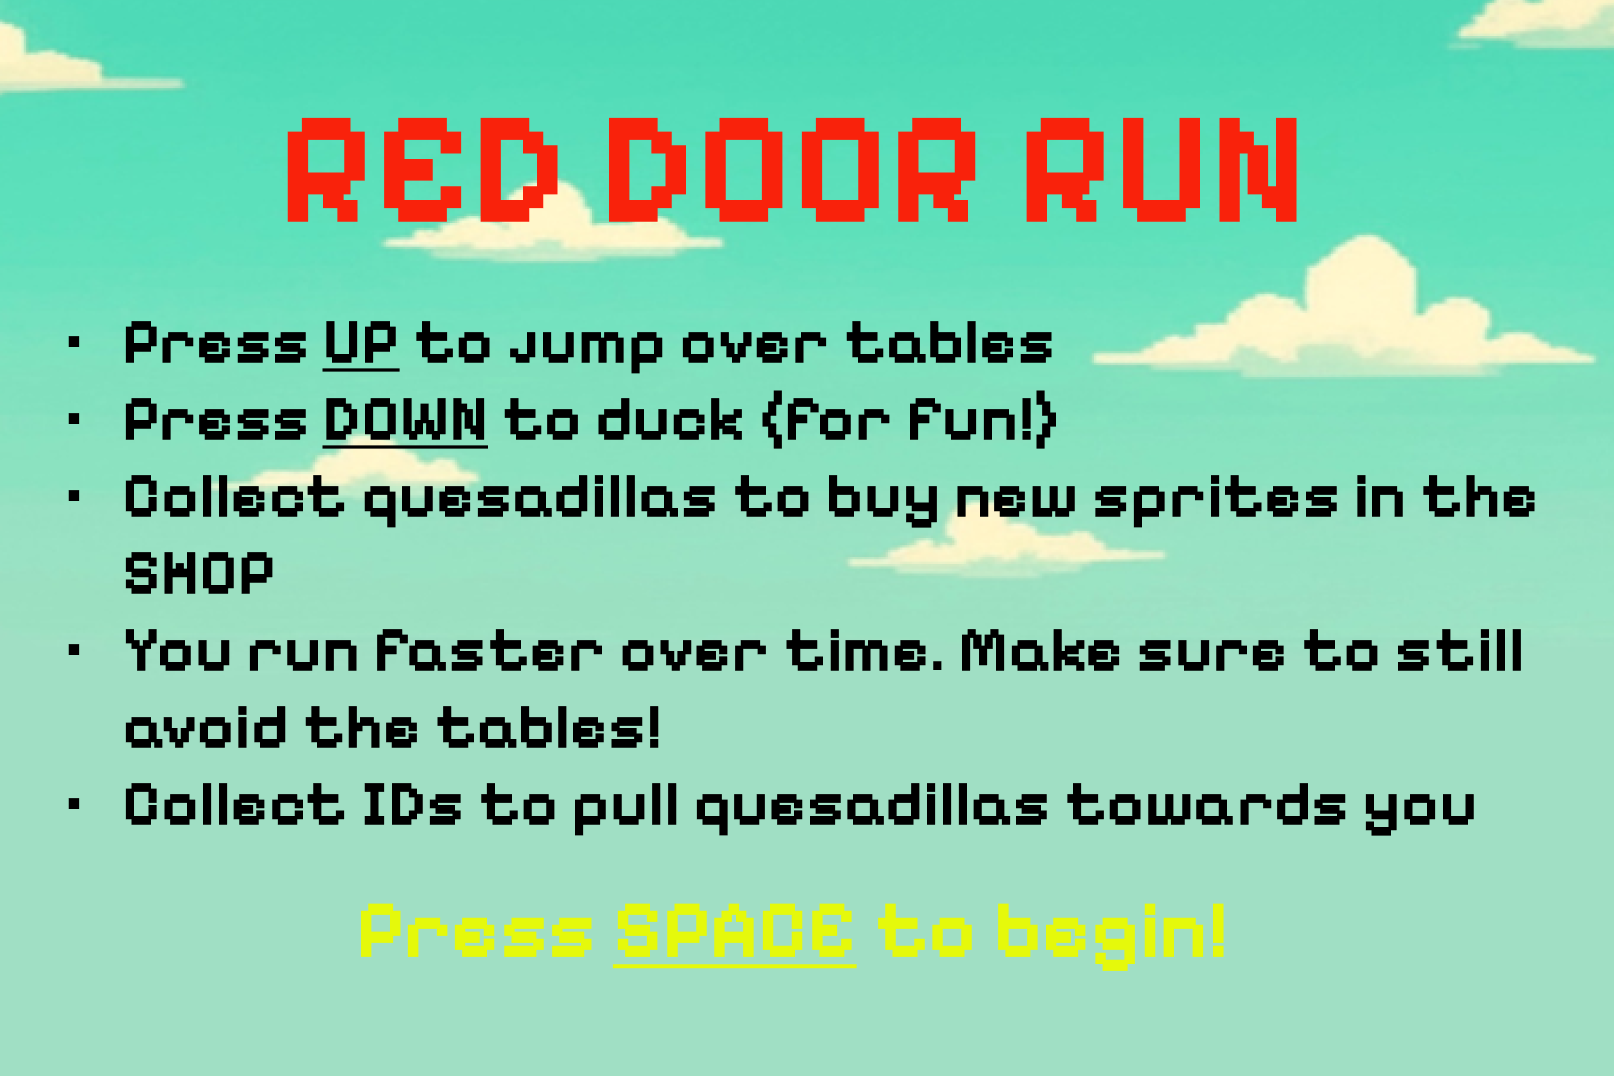
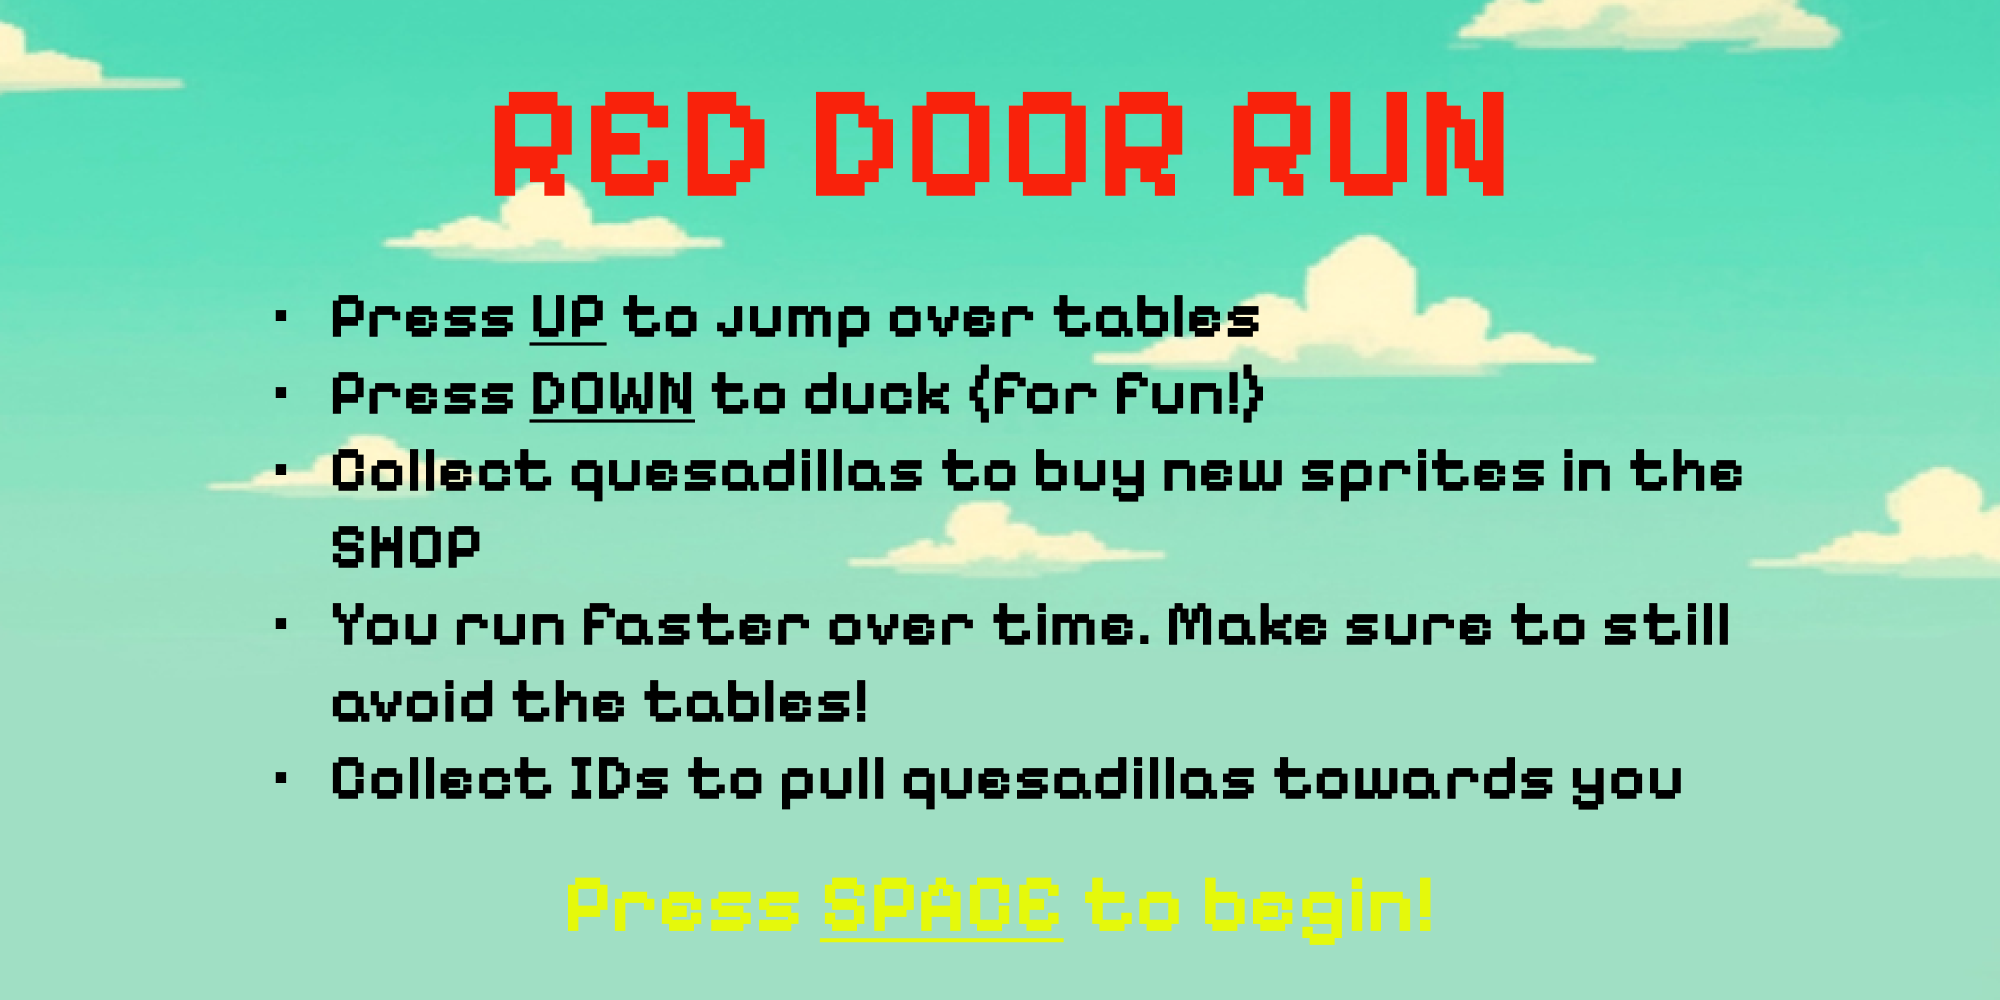
Ducking

diff --git a/library/utils.c b/library/utils.c
@@ -1,11 +1,51 @@
 #include <assert.h>
 #include <math.h>
 
-#include "body.h"
 #include "utils.h"
-
+#include "constants.h"
 double mod_d(double a, double b) { return a - (int)(a / b) * b; }
 
 double min_d(double a, double b) { return a < b ? a : b; }
 
 double max_d(double a, double b) { return a > b ? a : b; }
+
+
+char *get_player_sprite_duck_path(state_t *state){
+    char *ext = (char *) PLAYER_SPRITE_EXT;
+    char *suffix = (char *) PLAYER_SPRITE_DUCK_PATH_SUFFIX;
+    
+    size_t path_len = strlen(state->sprite_path);
+    size_t ext_len = strlen(ext);
+    size_t suffix_len = strlen(suffix);
+
+    size_t base_len = path_len - ext_len;
+    size_t total_len = base_len + suffix_len + ext_len;
+
+    char *sprite_name = malloc(total_len + 1);
+
+    // Copy over without null terminator - then manually add in
+    memcpy(sprite_name, state->sprite_path, base_len);
+    sprite_name[base_len] = '\0';
+
+    strcat(sprite_name, suffix);
+    strcat(sprite_name, ext);
+    return sprite_name;
+}
+
+char *get_player_sprite_normal_path(state_t *state) {
+    size_t path_len = strlen(state->sprite_path);
+    size_t ext_len = strlen(PLAYER_SPRITE_EXT);
+    size_t suffix_len = strlen(PLAYER_SPRITE_DUCK_PATH_SUFFIX);
+
+    size_t base_len = path_len - ext_len - suffix_len;
+    size_t total_len = base_len + ext_len;
+
+    char *normal_name = malloc(total_len + 1);
+
+    memcpy(normal_name, state->sprite_path, base_len);
+    normal_name[base_len] 
+    memcpy(normal_name + base_len, PLAYER_SPRITE_EXT, ext_len);
+    normal_name[total_len] = '\0';
+
+    return normal_name;
+}

diff --git a/library/kinematics.c b/library/kinematics.c
@@ -7,6 +7,7 @@
 #include "game_state.h"
 #include "kinematics.h"
 #include "utils.h"
+#include "asset.h"
 
 void revert_duck(state_t *state) {}
 
@@ -64,11 +65,24 @@ void on_key(char key, key_event_type_t type, double held_time, state_t *state) {
         state->curr_player_obstacle = NULL;
         break;
       case DOWN_ARROW:
-        body_set_velocity(state->player, DUCK_INITIAL_VELOCITY);
+        char *new_path = get_player_sprite_duck_path(state);
+        free(state->sprite_path);
+        state->sprite_path = new_path;
+        asset_remove_body(state->player);
+        asset_make_image_with_body(state->sprite_path, state->player);
         state->player_motion = DUCK;
         break;
       }
     }
+  }
+
+  if (type == KEY_RELEASED && state->player_motion == DUCK && key == DOWN_ARROW){
+      char *new_path = get_player_sprite_normal_path(state);
+      free(state->sprite_path);
+      state->sprite_path = new_path;
+      asset_remove_body(state->player);
+      asset_make_image_with_body(state->sprite_path, state->player);
+      state->player_motion = REGULAR;
   }
 }
 
@@ -101,7 +115,6 @@ void manipulate_player(state_t *state, double dt) {
     }
     break;
   case DUCK:
-    revert_duck(state);
     break;
   case REGULAR:
     sdl_on_key((key_handler_t)on_key);

diff --git a/include/utils.h b/include/utils.h
@@ -2,7 +2,6 @@
 #define __MATH_H__
 
 #include "game_state.h"
-#include "body.h"
 /*
 Equivalent to a % b for double types. Cast (a/b) to an int and multiply that by
 b. Return difference from a
@@ -19,9 +18,9 @@ Returns maximum value of two doubles and b
 */
 double max_d(double a, double b);
 
-/*
-Looks for player in scene
-*/
-body_t *get_player(state_t *state);
+
+char *get_player_sprite_duck_path(state_t *state);
+
+char *get_player_sprite_normal_path(state_t *state);
 
 #endif

diff --git a/library/constants.c b/library/constants.c
@@ -83,6 +83,9 @@ const char *CARD_PATH = "assets/Card.png";
 const char *PLAYER_SPRITE_AMUDHAN_PATH = "assets/Amudhan.png";
 const char *PLAYER_SPRITE_ANDREA_PATH = "assets/Andrea.png";
 const char *PLAYER_SPRITE_ARJUN_PATH = "assets/Arjun.png";
+const char *PLAYER_SPRITE_DUCK_PATH_SUFFIX = " Squat";
+const char *PLAYER_SPRITE_EXT = ".png";
+
 const char *SKY_PATH = "assets/Sky.png";
 const char *BUILDING_PATH = "assets/Building.png";
 const char *TREE_PATH = "assets/Tree.png";

diff --git a/include/constants.h b/include/constants.h
@@ -81,6 +81,9 @@ extern const char *CARD_PATH;
 extern const char *PLAYER_SPRITE_AMUDHAN_PATH;
 extern const char *PLAYER_SPRITE_ANDREA_PATH;
 extern const char *PLAYER_SPRITE_ARJUN_PATH;
+extern const char *PLAYER_SPRITE_DUCK_PATH_SUFFIX;
+extern const char *PLAYER_SPRITE_EXT;
+
 extern const char *BUILDING_PATH;
 extern const char *SHOP_PATH;
 extern const char *TREE_PATH;
